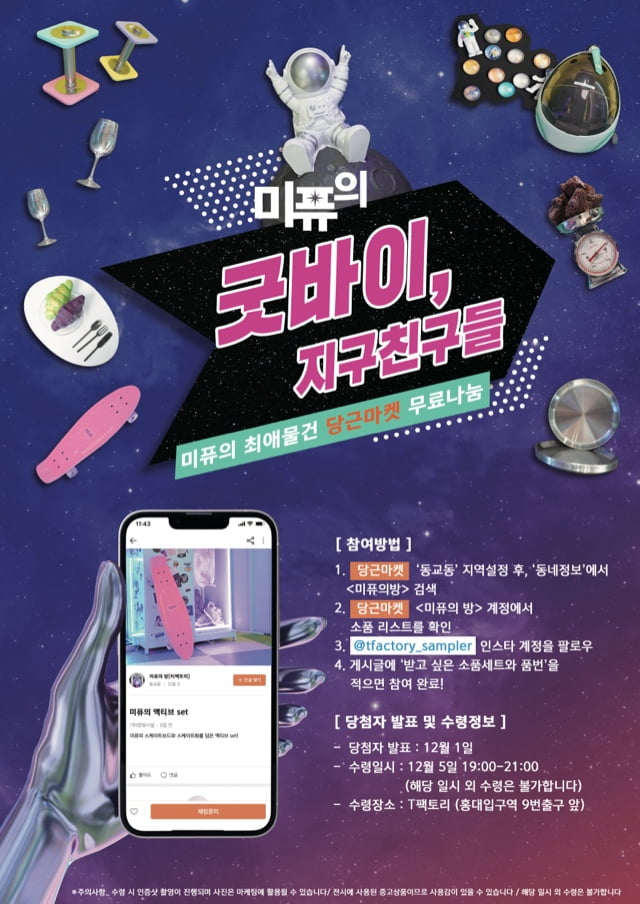
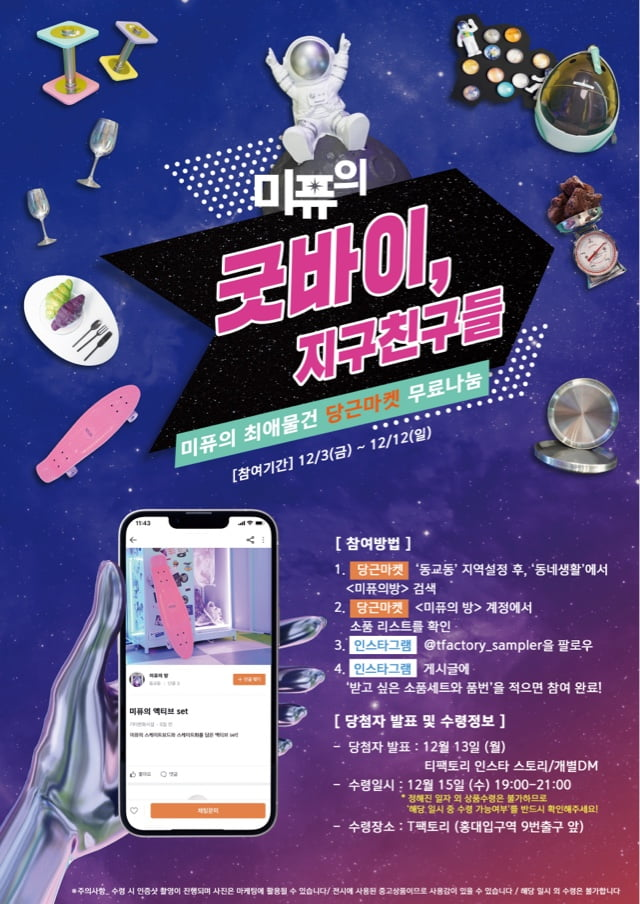
program48, 49 수정

diff --git a/src/assets/html/product/program/program48.html b/src/assets/html/product/program/program48.html
@@ -31,6 +31,30 @@
       </p>
     </div>
     <div class="details-inner">
+      <h3 class="subtit">
+        굿바이, 지구 친구들 EVENT<br>
+        미퓨의 감성 소품 무료나눔
+      </h3>
+      <div class="thumb"><img src="../../../images/program/class48-conts3.jpg" alt="T Factory x FLO 입덕후콘서트"></div>
+      <ol class="step-list" >
+        <li>
+          당근마켓 ‘동교동’ 지역설정 후, ‘동네정보’에서<br>
+          &lt;미퓨의방&gt;검색
+        </li>
+        <li>당근마켓 &lt;미퓨의 방&gt;계정에서 소품 리스트를 확인</li>
+        <li>@tfactory_sampler 인스타 계정을 팔로우</li>
+        <li>
+          게시글에 ‘받고 싶은 소품세트와 품번’을<br>
+          적으면 참여 완료!
+        </li>
+      </ol>
+      <ul class="texts-list" style="margin-top: 22px;">
+        <li>당첨자 발표: 12월 13일</li>
+        <li>수령일시: 12월 15일(수) 19:00-21:00<br><span style="margin-left: 58px;">(해당 일시 외 수령은 불가합니다)</span></li>
+        <li>수령장소: T Factory (홍대입구역 9번출구 앞)</li>
+      </ul>
+    </div>
+    <div class="details-inner">
       <h3 class="subtit">전시 소개</h3>
       <p>미퓨의 방으로 여러분을 초대합니다.</p>
       <p style="margin-top: 22px;">리얼리티 우주 감각 전시 &lt;미퓨의 방&gt;은 SK텔레콤의 새로운 구독서비스 ‘T우주’ 출시기념으로 기획된 컨셉형 전시입니다.</p>

diff --git a/src/components/product/program/Program49.vue b/src/components/product/program/Program49.vue
@@ -92,9 +92,13 @@
         <div class="profile">
           <em>T FACTORY CREW</em>
           <span>
-          AMY<br>
-          에이미
-        </span>
+            Ellien<br>
+            엘린
+          </span>
+          <span style="margin-top:12px;">
+            누구나 쉽게 가죽케이스를 완성할 수 있도록,<br>
+            엘린이 도와드릴게요.
+          </span>
         </div>
       </div>
     </div>
